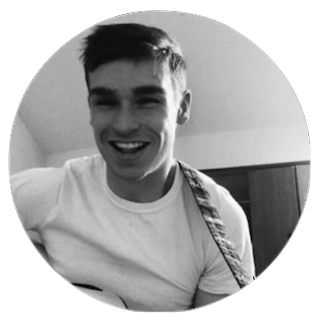
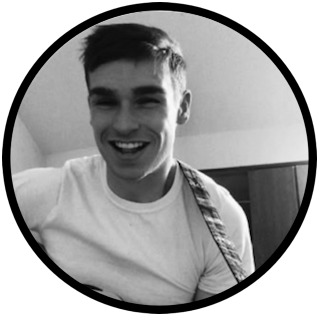
Frames + viewport

Changed region(s): [[0.0, 0.0, 1.0, 0.9938]]

diff --git a/index.html b/index.html
@@ -1,14 +1,22 @@
 <!DOCTYPE html>
 
-<html>
+<html class="framed">
     <head>
         
     	<link rel="stylesheet" href="css/format.css">
         <title> mcthomas.github.io </title>
-        <meta name="viewport" content="width=device-width, initial-scale=.3">
+        <meta name="viewport" content="width=device-width, initial-scale=1, minimum-scale=1, maximum-scale=1">
         
     </head>
 <body>
+    
+    <p>
+
+    <br>
+    <br>
+    <br>
+
+    </p>
     
 <div class="fade-in">
 
@@ -20,13 +28,15 @@
 
 <br>
 <br>
+<br>
 
 </p>
 
-<h1 style="font-family:Menlo; color:white; font-size:20px"> &#8643 &nbsp &nbsp &nbsp &nbsp &nbsp &nbsp &nbsp &nbsp &nbsp H I G H L I G H T S &nbsp &nbsp &nbsp &nbsp &nbsp &nbsp &nbsp &nbsp &nbsp &#8642 </h1>
+<h1 style="font-family:Menlo; color:white; font-size:20px"> &#8643 &nbsp &nbsp &nbsp &nbsp &nbsp &nbsp &nbsp &nbsp H I G H L I G H T S &nbsp &nbsp &nbsp &nbsp &nbsp &nbsp &nbsp &nbsp &#8642 </h1>
 
 <p>
 
+<br>
 <br>
 <br>
 <br>
@@ -107,6 +117,12 @@
   <a style="text-decoration:none;" href="https://www.linkedin.com/in/matt-thomas-9a6a521a3/"><img src="images/linkedin.png"</a>
   
 </div>
+
+<p>
+
+<br>
+
+</p>
 
     </body>
 </html>

diff --git a/css/format.css b/css/format.css
@@ -1,8 +1,5 @@
 body {
 	
-    #background-image: url("../images/bg.png");
-    background-position: center;
-	background-repeat: repeat;
     margin: auto;
     margin-top: 0px;
     text-align: center;
@@ -10,7 +7,14 @@ body {
     width: 50%;
     padding: 10px;
     background-color: #3c3d3c;
-    
+
+}
+
+.framed {
+    min-height:95%;
+    border-width:7px;
+    border-style:groove;
+    border-color:var(black);
 }
 
 #imagesMain {
@@ -20,9 +24,9 @@ body {
 }
 
 #imagesMain img {
-  padding: 50px;
-  height: 50px;
-  width: 50px;
+  padding: 56px;
+  height: 56px;
+  width: 56px;
   vertical-align: middle;
 }
 
@@ -96,8 +100,8 @@ body {
 
 #imagesSocial img {
   padding: 5px;
-  height: 25px;
-  width: 25px;
+  height: 36px;
+  width: 36px;
   vertical-align: middle;
 }
 
